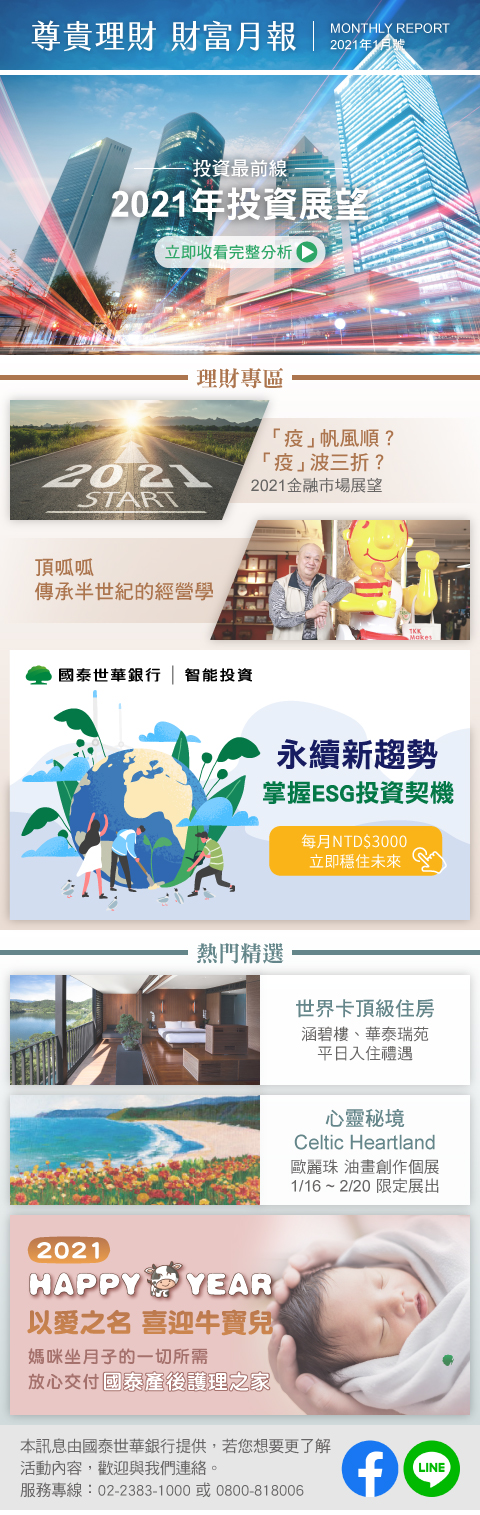
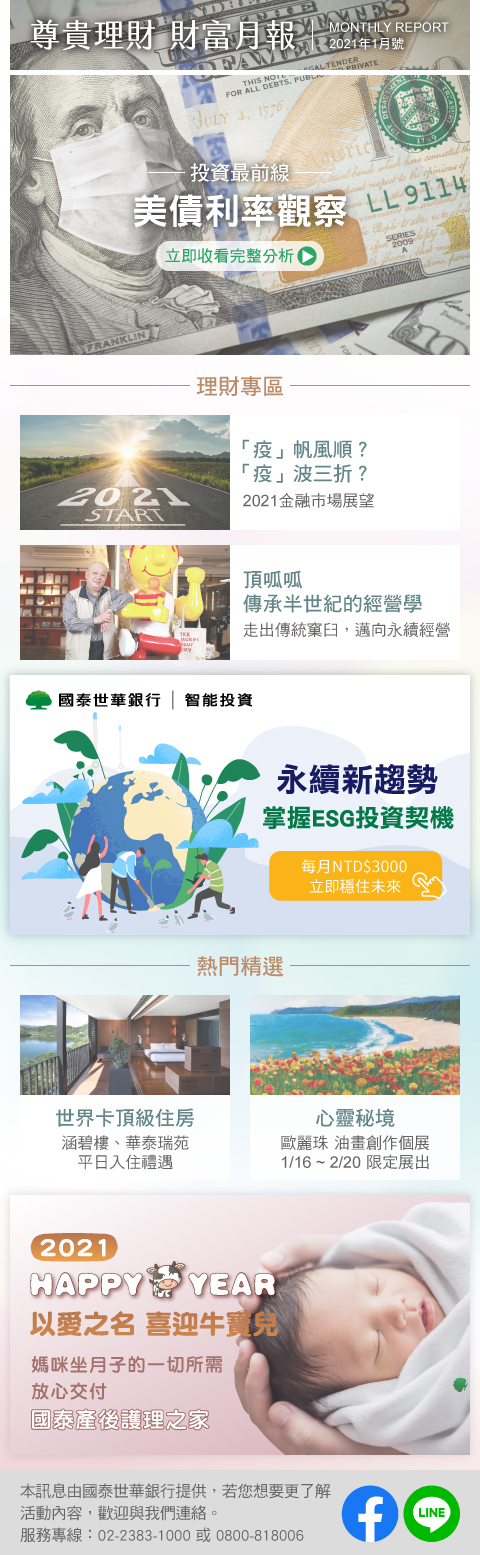
update

diff --git a/monthly-report-202101/index.html b/monthly-report-202101/index.html
@@ -137,7 +137,7 @@ font-family:'Microsoft JhengHei',Arial,'微軟正黑體', sans-serif;
             <td height="40" style="background:#FAFAFA;">
               <table class="alert" border="0" align="center" cellpadding="0" cellspacing="0" style="width:96%; margin:0 2%;color: #858585;font-size: 14px;text-decoration:underline">
                 <tr>
-                  <td width="165" style="text-align: center"><a style="color:#858585;text-decoration: underline;" target="_blocck" href="https://www.cathaybk.com.tw/cathaybk/promo/edm/wealth/product/202101/Wealth01/index.html?CUB_SRC=EDM&CUB_CHL1=URL&CUB_CHL2=02&MA_TK=WM479&CUB_DT=20210111"> ※若是您無法正常瀏覽，請點選這裡，直接到網站上讀取 </a>
+                  <td width="165" style="text-align: center"><a style="color:#858585;text-decoration: underline;" target="_blocck" href="https://www.cathaybk.com.tw/cathaybk/promo/edm/wealth/product/202101/Wealth/index.html?CUB_SRC=EDM&CUB_CHL1=URL&CUB_CHL2=01&MA_TK=WM563&CUB_DT=20210116"> ※若是您無法正常瀏覽，請點選這裡，直接到網站上讀取 </a>
                   </td>
                 </tr>
               </table>
@@ -178,7 +178,7 @@ font-family:'Microsoft JhengHei',Arial,'微軟正黑體', sans-serif;
               <![endif]-->
               <table border="0" cellpadding="0" cellspacing="0" style="width: 100%;background:#b0b6bd;float:left;text-align:center;height:auto;">
                <tr bgcolor="#FFFFFF">
-      <td height="" align="center" style="color:#FFF; font-size:36px;"><img src="images/monthly-report-202101-2.jpg" width="480" height="1550" border="0"/></td>
+      <td height="" align="center" style="color:#FFF; font-size:36px;"><img src="images/monthly-report-202101.jpg" width="480" height="1555" usemap="#Map" border="0"/></td>
     </tr>
               </table>
               <!--[if mso]>
@@ -389,6 +389,18 @@ font-family:'Microsoft JhengHei',Arial,'微軟正黑體', sans-serif;
   <![endif]-->
 </div>
 </center>
+
+<map name="Map">
+  <area shape="rect" coords="9,74,470,355" href="https://youtu.be/MFf4s8xMGDQ?CUB_SRC=EDM&CUB_CHL1=URL&CUB_CHL2=01&MA_TK=WM563&CUB_DT=20210116" target="_blank" alt="-投資最前線- 美債利率觀察">
+  <area shape="rect" coords="20,414,458,531" href="https://www.cathaybk.com.tw/cathaybk/personal/wealth/market/report/monthly-topic/202101/?CUB_SRC=EDM&CUB_CHL1=URL&CUB_CHL2=01&MA_TK=WM563&CUB_DT=20210116" target="_blank" alt="「疫」帆風順？「疫」波三折？">
+  <area shape="rect" coords="20,545,459,661" href="https://www.cathaybk.com.tw/cathaybk/personal/wealth/vip/inherit/11/?CUB_SRC=EDM&CUB_CHL1=URL&CUB_CHL2=01&MA_TK=WM563&CUB_DT=20210116" target="_blank" alt="頂呱呱 傳承半世紀的經營學">
+  <area shape="rect" coords="9,675,472,937" href="https://www.cathayrobo.com/welcome/themeinvest?CUB_SRC=EDM&CUB_CHL1=URL&CUB_CHL2=01&MA_TK=WM563&CUB_DT=20210116&utm_source=CUBLETTER&utm_medium=BANNER&utm_campaign=ESG" target="_blank" alt="生活投資挖掘永續發展優勢，掌握ESG投資契機">
+  <area shape="rect" coords="19,995,230,1182" href="https://www.cathaybk.com.tw/cathaybk/personal/credit-card/cards/intro/world/?CUB_SRC=EDM&CUB_CHL1=URL&CUB_CHL2=01&MA_TK=WM563&CUB_DT=20210116#tab-04" target="_blank" alt="世界卡頂級住房">
+  <area shape="rect" coords="250,996,461,1182" href="https://fund.cathaybk.org.tw/?CUB_SRC=EDM&CUB_CHL1=URL&CUB_CHL2=01&MA_TK=WM563&CUB_DT=20210116" target="_blank" alt="心靈秘境 歐麗珠 油畫創作個展">
+  <area shape="rect" coords="10,1195,471,1455" href="http://www.cathaybabycare.com.tw/news/item/527-article.html?CUB_SRC=EDM&CUB_CHL1=URL&CUB_CHL2=01&MA_TK=WM563&CUB_DT=20210116&utm_source=newsletter&utm_medium=email&utm_campaign=財富月報&utm_content=財富月報" target="_blank" alt="國泰產後護理之家 Happy牛Year方案">
+  <area shape="circle" coords="369,1514,28" href="https://www.facebook.com/cathayunitedbank?CUB_SRC=EDM&CUB_CHL1=URL&CUB_CHL2=01&MA_TK=WM563&CUB_DT=20210116" target="_blank" alt="國泰世華＊Enrich Your Life＊">
+  <area shape="circle" coords="431,1513,28" href="https://line.me/R/ti/p/@cathaybank?CUB_SRC=EDM&CUB_CHL1=URL&CUB_CHL2=01&MA_TK=WM563&CUB_DT=20210116" target="_blank" alt="透過行動條碼加入LINE好友">
+</map>
 </body>
 
 </html>
